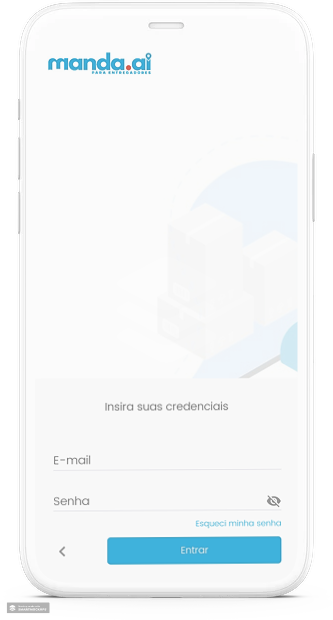
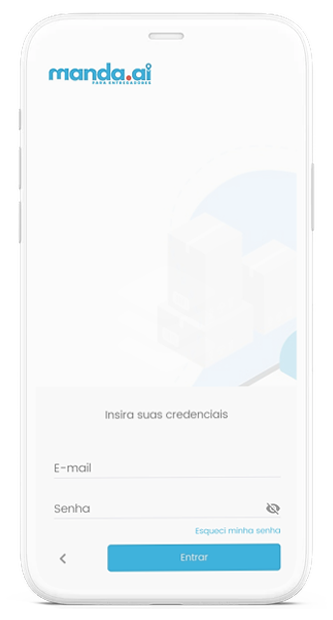
Novos Prints do App

diff --git a/index.html b/index.html
@@ -636,84 +636,67 @@
                                 
                                 <!-- Slide -->
                                 <div class="swiper-slide">
-                                    <a href="images/screenshot-1.png" class="popup-link" data-effect="fadeIn">
-                                        <img class="img-fluid" src="images/screenshot-1.png" alt="alternative">
+                                    <a href="images/prints/logo.png" class="popup-link" data-effect="fadeIn">
+                                        <img class="img-fluid" src="images/prints/logo.png" alt="alternative">
                                     </a>
                                 </div>
                                 <!-- end of slide -->
                                 
                                 <!-- Slide -->
                                 <div class="swiper-slide">
-                                    <a href="images/screenshot-2.png" class="popup-link" data-effect="fadeIn">
-                                        <img class="img-fluid" src="images/screenshot-2.png" alt="alternative">
+                                    <a href="images/prints/login.png" class="popup-link" data-effect="fadeIn">
+                                        <img class="img-fluid" src="images/prints/login.png" alt="alternative">
                                     </a>
                                 </div>
                                 <!-- end of slide -->
 
                                 <!-- Slide -->
                                 <div class="swiper-slide">
-                                    <a href="images/screenshot-3.png" class="popup-link" data-effect="fadeIn">
-                                        <img class="img-fluid" src="images/screenshot-3.png" alt="alternative">
+                                    <a href="images/prints/1.png" class="popup-link" data-effect="fadeIn">
+                                        <img class="img-fluid" src="images/prints/1.png" alt="alternative">
                                     </a>
                                 </div>
                                 <!-- end of slide -->
 
                                 <!-- Slide -->
                                 <div class="swiper-slide">
-                                    <a href="images/screenshot-4.png" class="popup-link" data-effect="fadeIn">
-                                        <img class="img-fluid" src="images/screenshot-4.png" alt="alternative">
+                                    <a href="images/prints/mapa.png" class="popup-link" data-effect="fadeIn">
+                                        <img class="img-fluid" src="images/prints/mapa.png" alt="alternative">
                                     </a>
                                 </div>
                                 <!-- end of slide -->
 
                                 <!-- Slide -->
                                 <div class="swiper-slide">
-                                    <a href="images/screenshot-5.png" class="popup-link" data-effect="fadeIn">
-                                        <img class="img-fluid" src="images/screenshot-5.png" alt="alternative">
+                                    <a href="images/prints/cadastro.png" class="popup-link" data-effect="fadeIn">
+                                        <img class="img-fluid" src="images/prints/cadastro.png" alt="alternative">
                                     </a>
                                 </div>
                                 <!-- end of slide -->
                                 
                                 <!-- Slide -->
                                 <div class="swiper-slide">
-                                    <a href="images/screenshot-6.png" class="popup-link" data-effect="fadeIn">
-                                        <img class="img-fluid" src="images/screenshot-6.png" alt="alternative">
+                                    <a href="images/prints/pedidos-1.png" class="popup-link" data-effect="fadeIn">
+                                        <img class="img-fluid" src="images/prints/pedidos-1.png" alt="alternative">
                                     </a>
                                 </div>
                                 <!-- end of slide -->
 
                                 <!-- Slide -->
                                 <div class="swiper-slide">
-                                    <a href="images/screenshot-7.png" class="popup-link" data-effect="fadeIn">
-                                        <img class="img-fluid" src="images/screenshot-7.png" alt="alternative">
+                                    <a href="images/prints/cliente.png" class="popup-link" data-effect="fadeIn">
+                                        <img class="img-fluid" src="images/prints/cliente.png" alt="alternative">
                                     </a>
                                 </div>
                                 <!-- end of slide -->
 
                                 <!-- Slide -->
                                 <div class="swiper-slide">
-                                    <a href="images/screenshot-8.png" class="popup-link" data-effect="fadeIn">
-                                        <img class="img-fluid" src="images/screenshot-8.png" alt="alternative">
+                                    <a href="images/prints/perfil.png" class="popup-link" data-effect="fadeIn">
+                                        <img class="img-fluid" src="images/prints/perfil.png" alt="alternative">
                                     </a>
                                 </div>
-                                <!-- end of slide -->
-
-                                <!-- Slide -->
-                                <div class="swiper-slide">
-                                    <a href="images/screenshot-9.png" class="popup-link" data-effect="fadeIn">
-                                        <img class="img-fluid" src="images/screenshot-9.png" alt="alternative">
-                                    </a>
-                                </div>
-                                <!-- end of slide -->
-
-                                <!-- Slide -->
-                                <div class="swiper-slide">
-                                    <a href="images/screenshot-10.png" class="popup-link" data-effect="fadeIn">
-                                        <img class="img-fluid" src="images/screenshot-10.png" alt="alternative">
-                                    </a>
-                                </div>
-                                <!-- end of slide -->
-                                
+                                <!-- end of slide -->                                
                             </div> <!-- end of swiper-wrapper -->
 
                             <!-- Add Arrows -->
@@ -739,14 +722,17 @@
                 <div class="col-lg-6 col-xl-5">
                     <div class="text-container">
                         <h2>Baixe o <span class="blue">Manda.aí App</span></h2>
-                        <p class="p-large">Target the right customers for your business with the help of Leno's patented technology and increase conversion figures in less than 2 weeks</p>
+                        <p class="p-large">
+                            O manda.aí tenta proporcionar a melhor experiência em entregas que o entregador pode ter. Com o nosso aplicativo, 
+                            você escolhe seu horário de trabalho e dias em que estará em operação. Escolha como deseja entregar! 
+                        </p>
                         <!-- <a class="btn-solid-lg" href="#your-link"><i class="fab fa-apple"></i>APP STORE</a> -->
                         <a class="btn-solid-lg" target="_blank" href="https://play.google.com/store/apps/developer?id=Manda+A%C3%AD+Labs&hl=pt_BR"><i class="fab fa-google-play"></i>PLAY STORE</a>
                     </div> <!-- end of text-container -->
                 </div> <!-- end of col -->
                 <div class="col-lg-6 col-xl-7">
                     <div class="image-container">
-                        <img class="img-fluid" src="images/download.png" alt="alternative">
+                        <img class="img-fluid" src="images/prints/download.png" alt="alternative">
                     </div> <!-- end of img-container -->
                 </div> <!-- end of col -->
             </div> <!-- end of row -->
@@ -862,7 +848,7 @@
                 <div class="col-md-4">
                     <div class="footer-col">
                         <h4>Sobre o Manda.aí</h4>
-                        <p>We're passionate about creating the best mobile apps for personal development</p>
+                        <p>O manda.aí é uma plataforma de intermediação de negócios de entregas sob demanda que nasceu na cidade de Caruaru-PE. Tem como objetivo conectar entregadores a lojas, facilitando o processo de logística de entregas para as lojas e geração de mais demandas para os entregadores.</p>
                     </div>
                 </div> <!-- end of col -->
                 <div class="col-md-4">
@@ -956,7 +942,12 @@
                 alert(retorno);
             });
          bootbox.alert('<p id="pe">Formulário enviado com sucesso!!</p>');
-            return false;
+            
+          $("#name").val("");
+          $("#email").val("");
+          $("#phone").val("");
+          $("#message").val("");
+          return false;
         });
         </script>
         <style>
